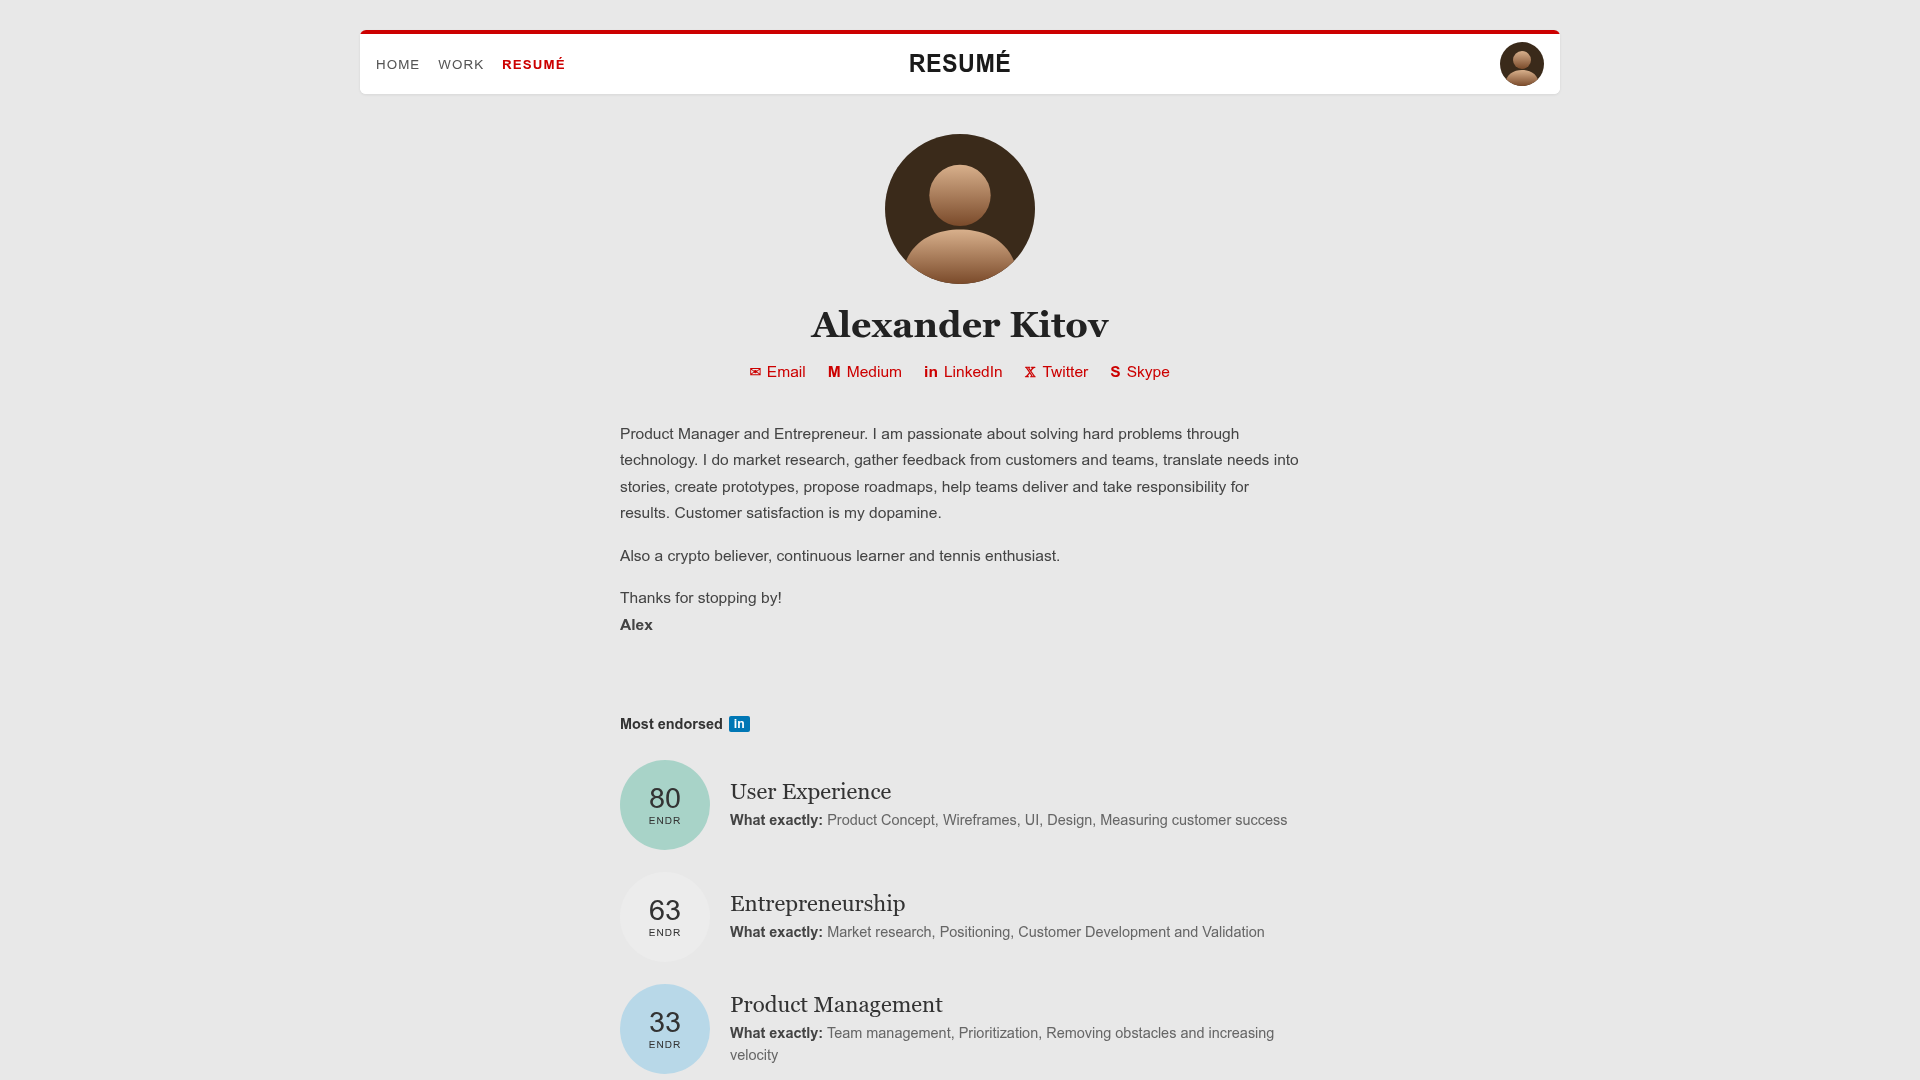
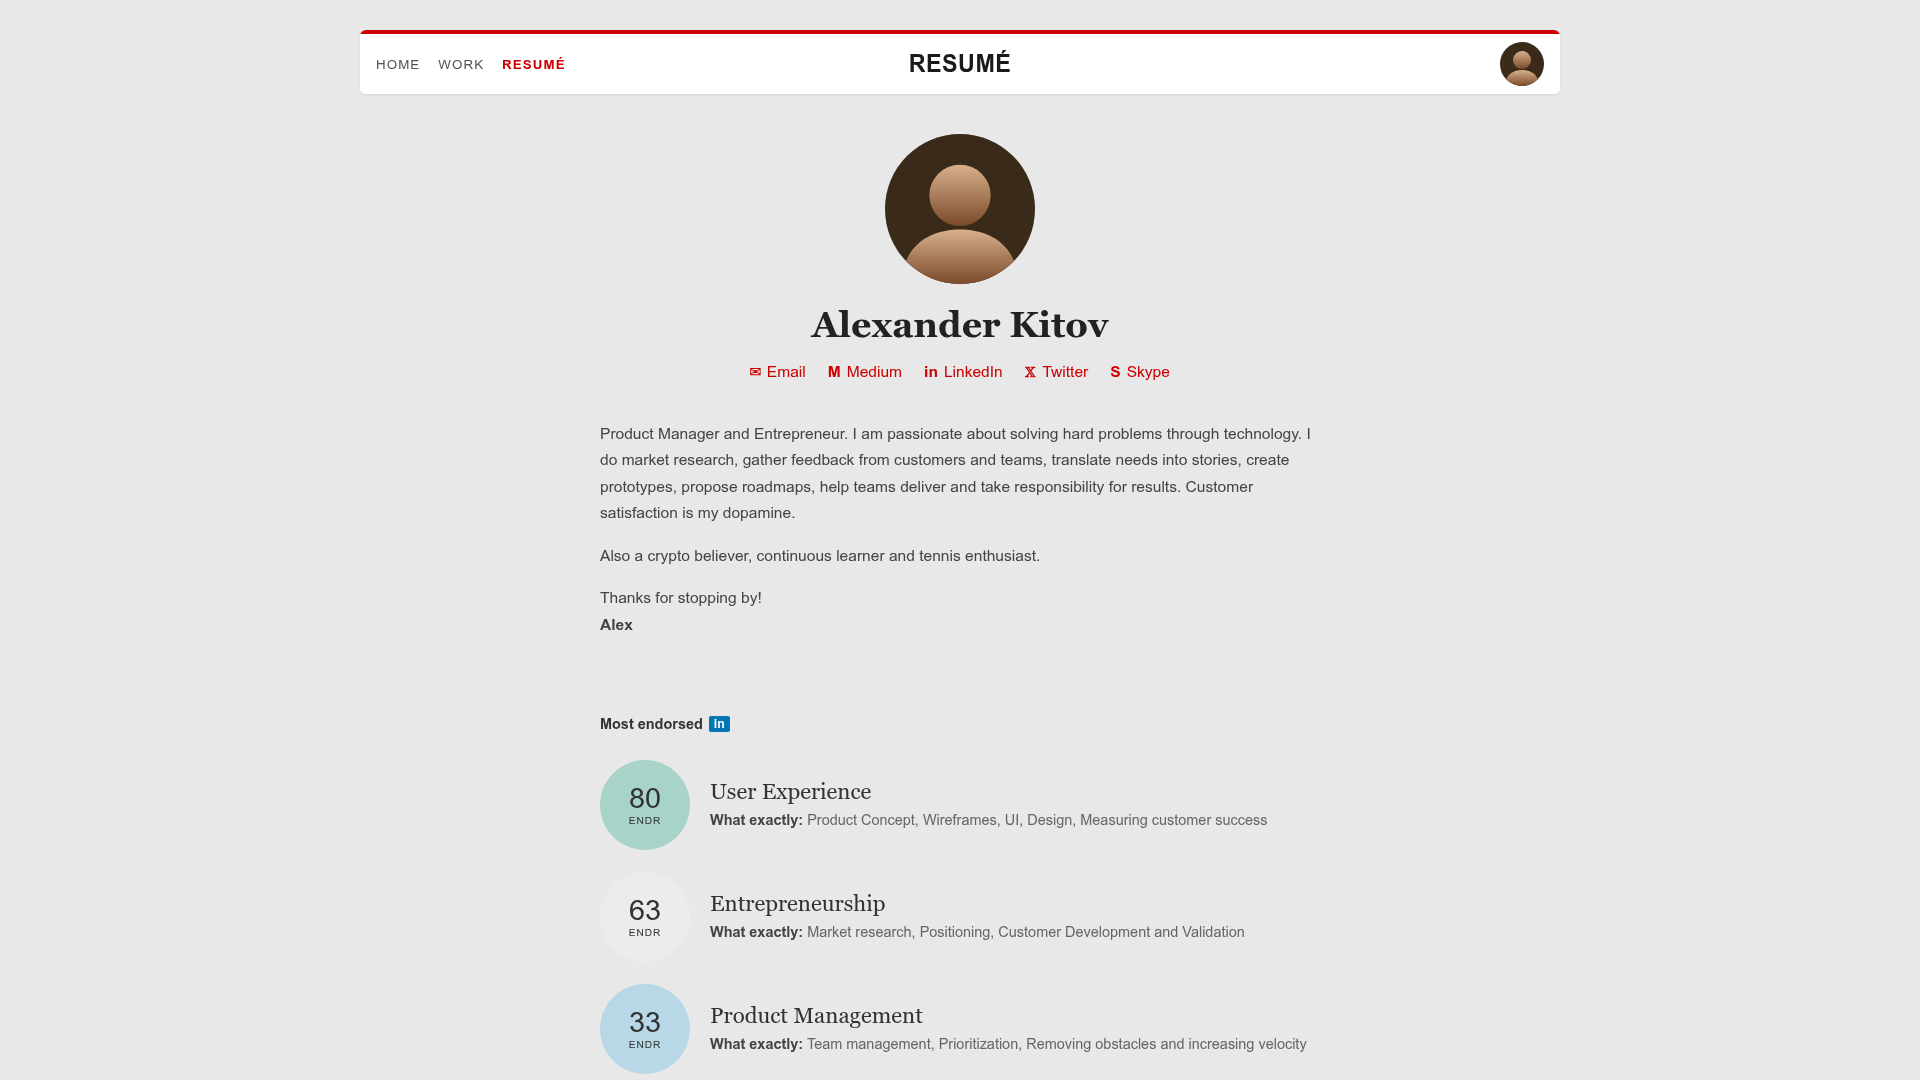
Fluid typography & 1200px container
Task #6: switch personal-site to a fluid root font size and a wider
1200px page container, with all font sizes expressed in rem.

Changes (CSS-only, no HTML markup changes):

- artifacts/personal-site/styles.css
  - Added a fluid root rule on `html`:
    `font-size: clamp(14px, calc(13px + 0.25vw), 18px);`
    This makes 1rem grow smoothly from ~14px on small phones to
    ~18px on large desktops; at typical desktop widths
    (~1280-1440px) it lands on ~16-17px so existing visual
    hierarchy is preserved.
  - Bumped `--max-w` from 960px -> 1200px (header + footer).
  - Bumped page-level wrapper max-widths to 1200px:
    * `.ak-content` 900 -> 1200
    * `.ak-post-page` 1000 -> 1200
    * `.ak-work-grid` 960 -> 1200
    * `.ak-project-page` 960 -> 1200
  - Bumped `.ak-about` 720 -> 1200, but added an inner reading
    constraint on `.ak-about-bio, .ak-about-section { max-width:
    720px; margin-inline: auto; }` so the wrapper participates in
    the 1200px page model while the long-form text stays at a
    comfortable reading measure.
  - Left other intentionally narrow reading-measure constraints
    alone per the task spec:
    * `.ak-post-head p` 700px (lede paragraph)
    * `.ak-post-side` 220px (post sidebar)
  - Converted every `font-size: <N>px` declaration in the file to
    rem (60 declarations across base styles + the
    `@media (max-width: 760px)` block). 1rem = 16px reference.
    The clamp on `:root` carries the px values that intentionally
[…]

diff --git a/artifacts/personal-site/styles.css b/artifacts/personal-site/styles.css
@@ -638,12 +638,20 @@ a { color: inherit; }
 /* ----------------------------- ABOUT PAGE ----------------------------- */
 
 .ak-about {
-  max-width: 720px;
+  max-width: 1200px;
   margin: 0 auto;
   padding: 40px 20px 80px;
   display: flex;
   flex-direction: column;
   align-items: center;
+}
+/* Reading measure: keep inner text columns narrow even though the
+ * page wrapper participates in the 1200px container model. */
+.ak-about-bio,
+.ak-about-section {
+  max-width: 720px;
+  margin-left: auto;
+  margin-right: auto;
 }
 .ak-about-photo {
   width: 150px;
